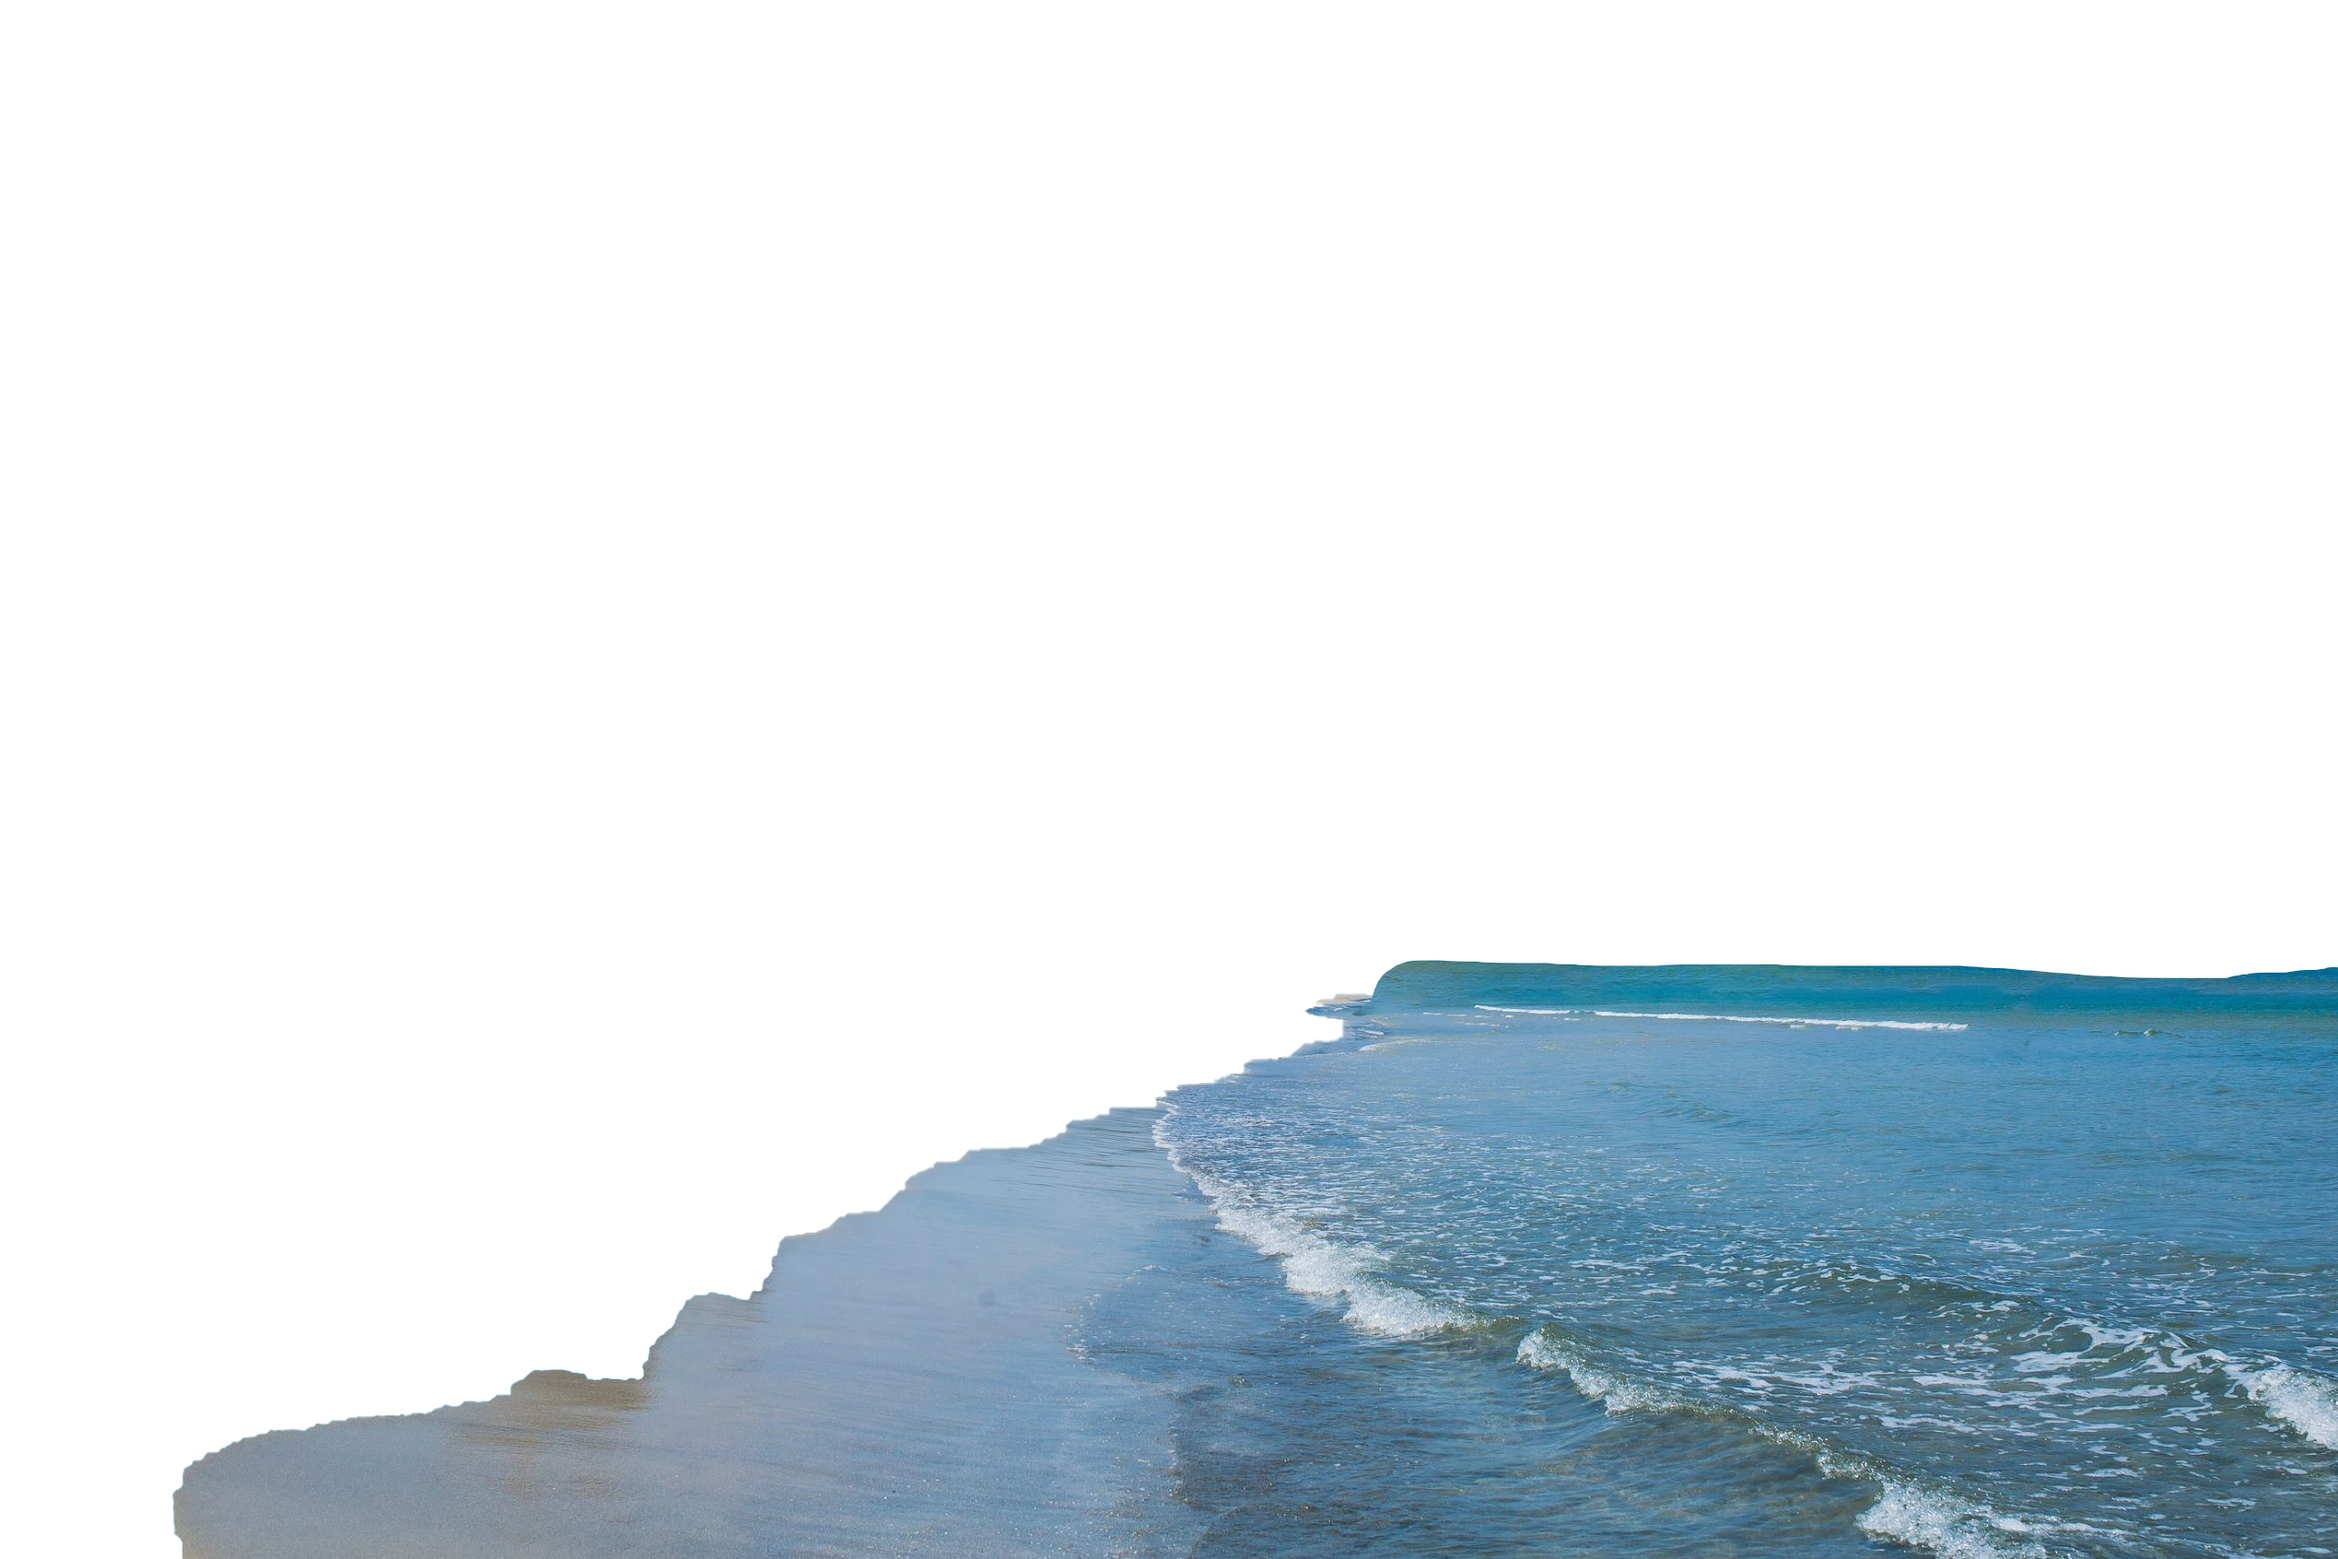
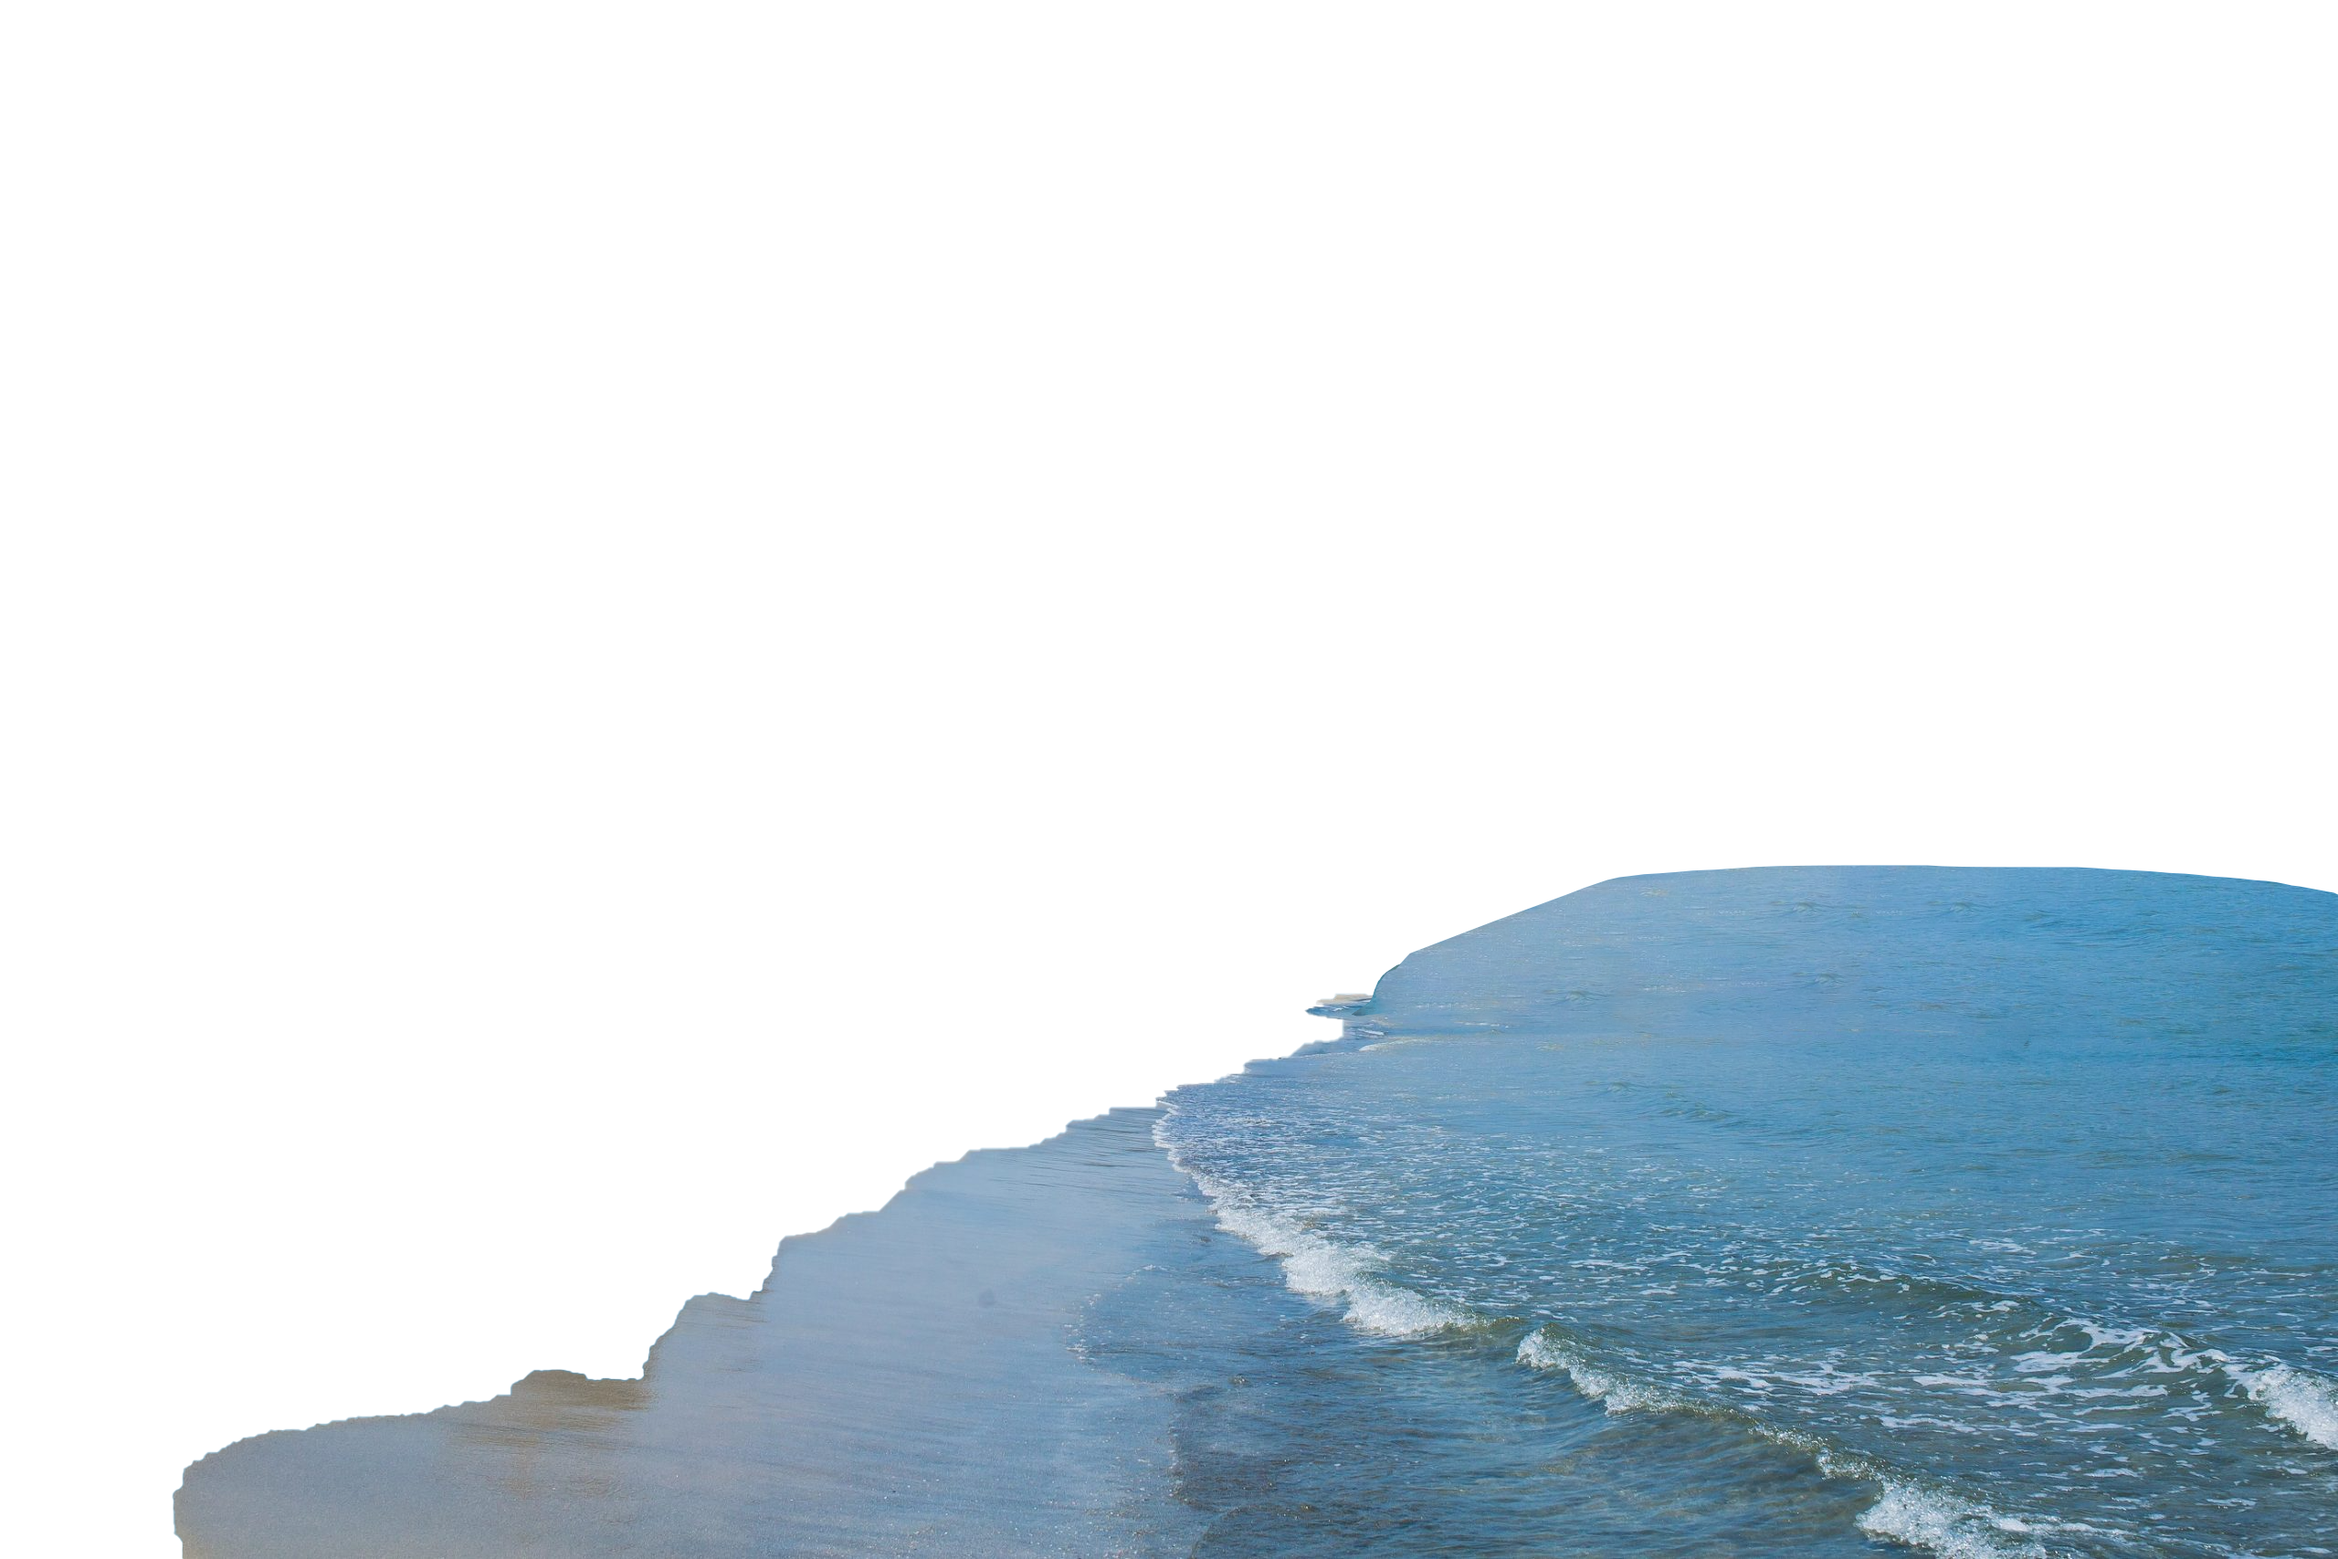
assets adjustment

Changed region(s): [[0.5938, 0.5278, 1.0, 0.6831]]

diff --git a/Tour-De-Viet/src/data.js b/Tour-De-Viet/src/data.js
@@ -133,7 +133,7 @@ import ocean_60 from './assets/60/ocean.png'
 import sky_60 from './assets/60/sky.png'
 
 
-export let current_id = 8;
+export let current_id = 60;
 export const arr = [
     {
         "id" : 6, 
@@ -210,6 +210,8 @@ export const arr = [
         { src: bg_35, alt: "bg", rotation: "0.0",  speedx: "0.0", speedy: "0.0", speedz: "0.0",  w:'100%',z: '1',  ctop: 'calc(50%)', cleft: 'calc(50%)'},
         { src: s_35, alt: "sea", rotation: "0.02",    speedx: "0.01", speedy: "0.07", speedz: "0.01",  w:'100%',z: '3',  ctop: 'calc(50%)', cleft: 'calc(50%)'},
         { src: l_35, alt: "land", rotation: "0.02",  speedx: "0.01", speedy: "0.02", speedz: "0.02",  w:'100%',z: '2',  ctop: 'calc(50%)', cleft: 'calc(50%)'},
+        { src: l_35, alt: "land", rotation: "0.0",    speedx: "0.0", speedy: "0.0", speedz: "0.0",  w:'100%',z: '2',  ctop: 'calc(50%)', cleft: 'calc(50%)'},
+        { src: b1_35, alt: "building_1", rotation: "0.0",    speedx: "0.0", speedy: "0.0", speedz: "0.0",  w:'100%',z: '2',  ctop: 'calc(50%)', cleft: 'calc(50%)'},
         { src: m_35, alt: "mountain", rotation: "0.01",  speedx: "0.01", speedy: "0.02", speedz: "0.02",  w:'100%',z: '4',  ctop: 'calc(50%)', cleft: 'calc(50%)'},
         { src: b1_35, alt: "building_1", rotation: "0.01", speedx: "0.01", speedy: "0.01", speedz: "0.0",  w:'100%',z: '4',  ctop: 'calc(50%)', cleft: 'calc(50%)'},
         { src: b2_35, alt: "building_2", rotation: "0",    speedx: "0.0", speedy: "0.01", speedz: "0",     w:'100%',z: '6',  ctop: 'calc(50% )', cleft: 'calc(50%)'},
